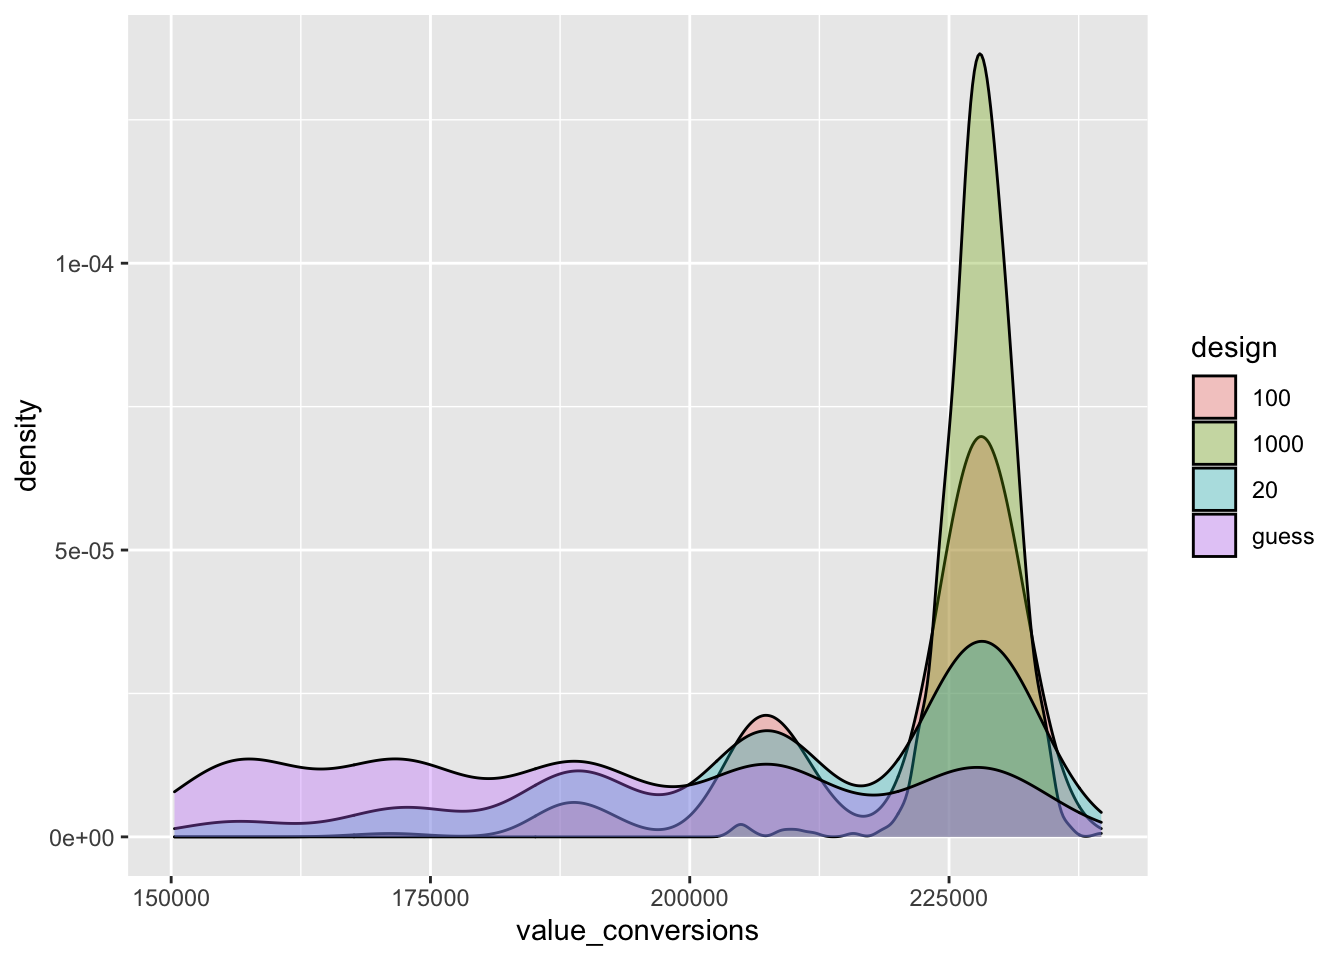
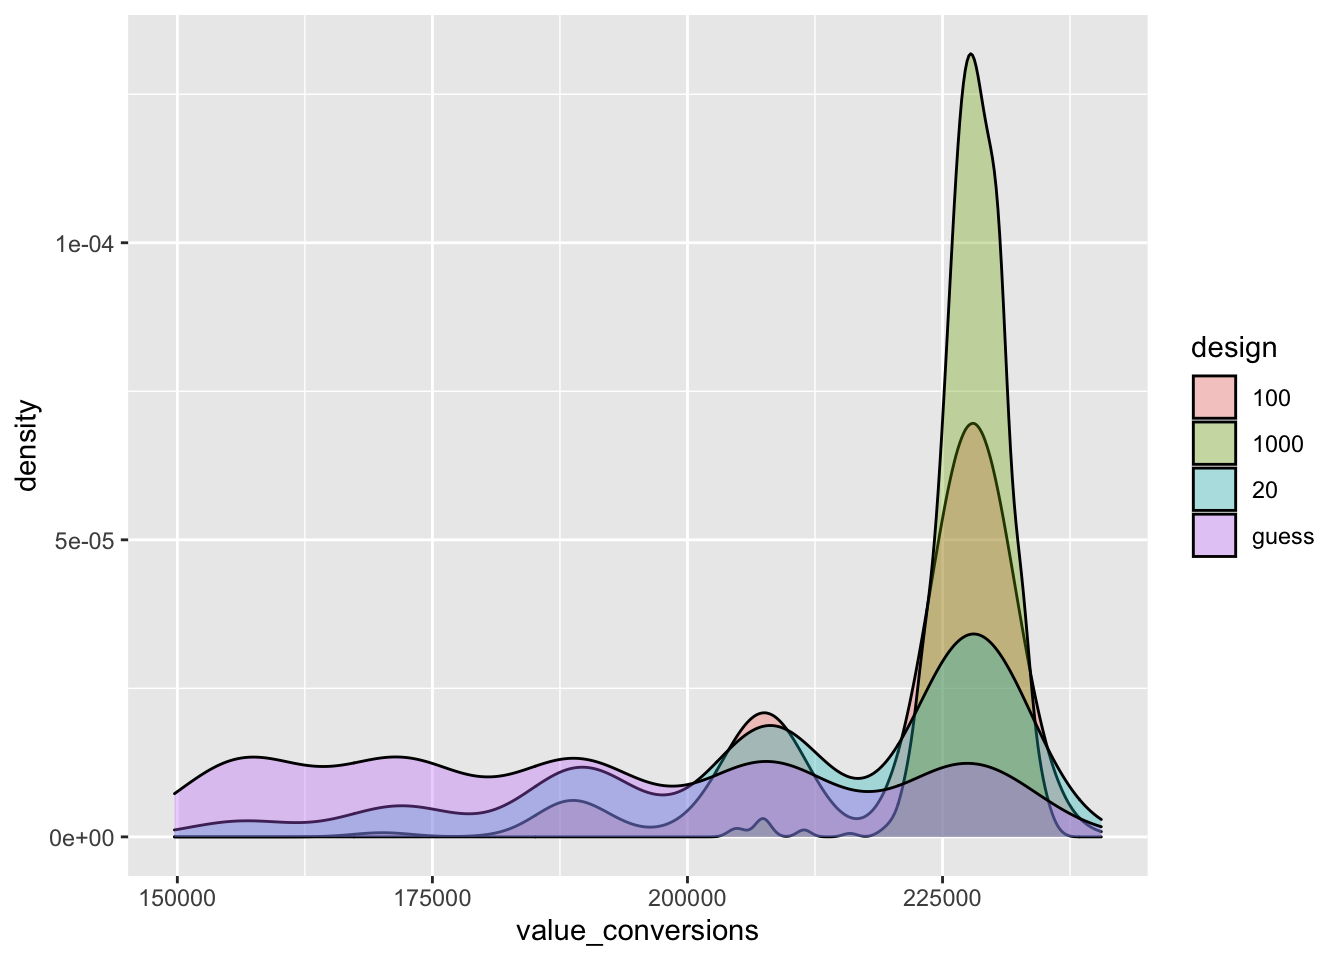
minor

diff --git a/docs/chapters/exp_design_quant.html b/docs/chapters/exp_design_quant.html
@@ -688,8 +688,8 @@ Ways to extend this
 </details>
 <div class="cell-output-display">
 
-<div id="htmlwidget-924cc9c5d664ca5af2f0" style="width:100%;height:auto;" class="datatables html-widget"></div>
-<script type="application/json" data-for="htmlwidget-924cc9c5d664ca5af2f0">{"x":{"filter":"none","vertical":false,"data":[["1","2","3","4","5","6","7","8","9","10","11"],[20,20,20,20,20,100,100,100,100,1000,1000],["a","b","c","d","e","a","c","d","e","d","e"],[157,34,70,259,480,57,5,217,721,11,989],[15.7,3.4,7,25.9,48,5.7,0.5,21.7,72.1,1.1,98.9]],"container":"<table class=\"display\">\n  <thead>\n    <tr>\n      <th> <\/th>\n      <th>n_per_group<\/th>\n      <th>selected<\/th>\n      <th>n<\/th>\n      <th>pct<\/th>\n    <\/tr>\n  <\/thead>\n<\/table>","options":{"pageLength":12,"info":false,"columnDefs":[{"className":"dt-right","targets":[1,3,4]},{"orderable":false,"targets":0}],"order":[],"autoWidth":false,"orderClasses":false,"lengthMenu":[10,12,25,50,100]}},"evals":[],"jsHooks":[]}</script>
+<div id="htmlwidget-1751aafa4a7a0b3a8ee0" style="width:100%;height:auto;" class="datatables html-widget"></div>
+<script type="application/json" data-for="htmlwidget-1751aafa4a7a0b3a8ee0">{"x":{"filter":"none","vertical":false,"data":[["1","2","3","4","5","6","7","8","9","10","11"],[20,20,20,20,20,100,100,100,100,1000,1000],["a","b","c","d","e","a","c","d","e","d","e"],[157,34,70,259,480,57,5,217,721,11,989],[15.7,3.4,7,25.9,48,5.7,0.5,21.7,72.1,1.1,98.9]],"container":"<table class=\"display\">\n  <thead>\n    <tr>\n      <th> <\/th>\n      <th>n_per_group<\/th>\n      <th>selected<\/th>\n      <th>n<\/th>\n      <th>pct<\/th>\n    <\/tr>\n  <\/thead>\n<\/table>","options":{"pageLength":12,"info":false,"columnDefs":[{"className":"dt-right","targets":[1,3,4]},{"orderable":false,"targets":0}],"order":[],"autoWidth":false,"orderClasses":false,"lengthMenu":[10,12,25,50,100]}},"evals":[],"jsHooks":[]}</script>
 </div>
 </div>
 <p>Above, we see that the larger the sample size, the more often the best message is chosen.</p>
@@ -785,10 +785,10 @@ Ways to extend this
 <pre><code># A tibble: 4 × 4
   design    mean  lower  upper
   &lt;chr&gt;    &lt;dbl&gt;  &lt;dbl&gt;  &lt;dbl&gt;
-1 100    221181. 191114 232640
-2 1000   227961. 222918 233082
-3 20     210303. 170078 231882
-4 guess  190635. 154958 230604</code></pre>
+1 100    221048. 191070 232524
+2 1000   227937. 222994 232842
+3 20     210467. 169716 231882
+4 guess  190581. 154876 229882</code></pre>
 </div>
 <details>
 <summary>Code</summary>
@@ -841,42 +841,42 @@ Ways to extend this
 <tbody>
   <tr>
    <td style="text-align:left;"> 100 </td>
-   <td style="text-align:right;"> 220,181 </td>
-   <td style="text-align:right;"> 12,458 </td>
-   <td style="text-align:right;"> 10,068 </td>
-   <td style="text-align:right;"> 190,114 </td>
-   <td style="text-align:right;"> 231,640 </td>
+   <td style="text-align:right;"> 220,048 </td>
+   <td style="text-align:right;"> 12,507 </td>
+   <td style="text-align:right;"> 10,095 </td>
+   <td style="text-align:right;"> 190,070 </td>
+   <td style="text-align:right;"> 231,524 </td>
   </tr>
   <tr>
    <td style="text-align:left;"> 1000 </td>
-   <td style="text-align:right;"> 217,961 </td>
-   <td style="text-align:right;"> 3,615 </td>
-   <td style="text-align:right;"> 2,530 </td>
-   <td style="text-align:right;"> 212,918 </td>
-   <td style="text-align:right;"> 223,082 </td>
+   <td style="text-align:right;"> 217,937 </td>
+   <td style="text-align:right;"> 3,610 </td>
+   <td style="text-align:right;"> 2,523 </td>
+   <td style="text-align:right;"> 212,994 </td>
+   <td style="text-align:right;"> 222,842 </td>
   </tr>
   <tr>
    <td style="text-align:left;"> 20 </td>
-   <td style="text-align:right;"> 210,103 </td>
-   <td style="text-align:right;"> 20,938 </td>
-   <td style="text-align:right;"> 17,334 </td>
-   <td style="text-align:right;"> 169,878 </td>
+   <td style="text-align:right;"> 210,267 </td>
+   <td style="text-align:right;"> 20,781 </td>
+   <td style="text-align:right;"> 17,076 </td>
+   <td style="text-align:right;"> 169,516 </td>
    <td style="text-align:right;"> 231,682 </td>
   </tr>
   <tr>
    <td style="text-align:left;"> guess </td>
-   <td style="text-align:right;"> 190,635 </td>
-   <td style="text-align:right;"> 25,435 </td>
-   <td style="text-align:right;"> 21,886 </td>
-   <td style="text-align:right;"> 154,958 </td>
-   <td style="text-align:right;"> 230,604 </td>
+   <td style="text-align:right;"> 190,581 </td>
+   <td style="text-align:right;"> 25,414 </td>
+   <td style="text-align:right;"> 21,900 </td>
+   <td style="text-align:right;"> 154,876 </td>
+   <td style="text-align:right;"> 229,882 </td>
   </tr>
 </tbody>
 </table>
 
 </div>
 </div>
-<p>As the graph and table above suggest, that the larger sample yields a lower payoff in expected value (but less dispersion).</p>
+<p>As the graph and table above suggest, the largest (1000 observation) sample design yields a lower payoff in expected value (but substantially less dispersion).</p>
 
 
 <!-- -->
@@ -1563,7 +1563,7 @@ window.document.addEventListener("DOMContentLoaded", function (event) {
 <span id="cb13-475"><a href="#cb13-475" aria-hidden="true" tabindex="-1"></a>) </span>
 <span id="cb13-476"><a href="#cb13-476" aria-hidden="true" tabindex="-1"></a></span>
 <span id="cb13-477"><a href="#cb13-477" aria-hidden="true" tabindex="-1"></a><span class="in">```</span></span>
-<span id="cb13-478"><a href="#cb13-478" aria-hidden="true" tabindex="-1"></a>As the graph and table above suggest, that the larger sample yields a lower payoff in expected value (but less dispersion).</span></code><button title="Copy to Clipboard" class="code-copy-button"><i class="bi"></i></button></pre></div>
+<span id="cb13-478"><a href="#cb13-478" aria-hidden="true" tabindex="-1"></a>As the graph and table above suggest, the largest (1000 observation) sample design yields a lower payoff in expected value (but substantially less dispersion).</span></code><button title="Copy to Clipboard" class="code-copy-button"><i class="bi"></i></button></pre></div>
 </div></div></div></div></div>
 </div> <!-- /content -->
 
